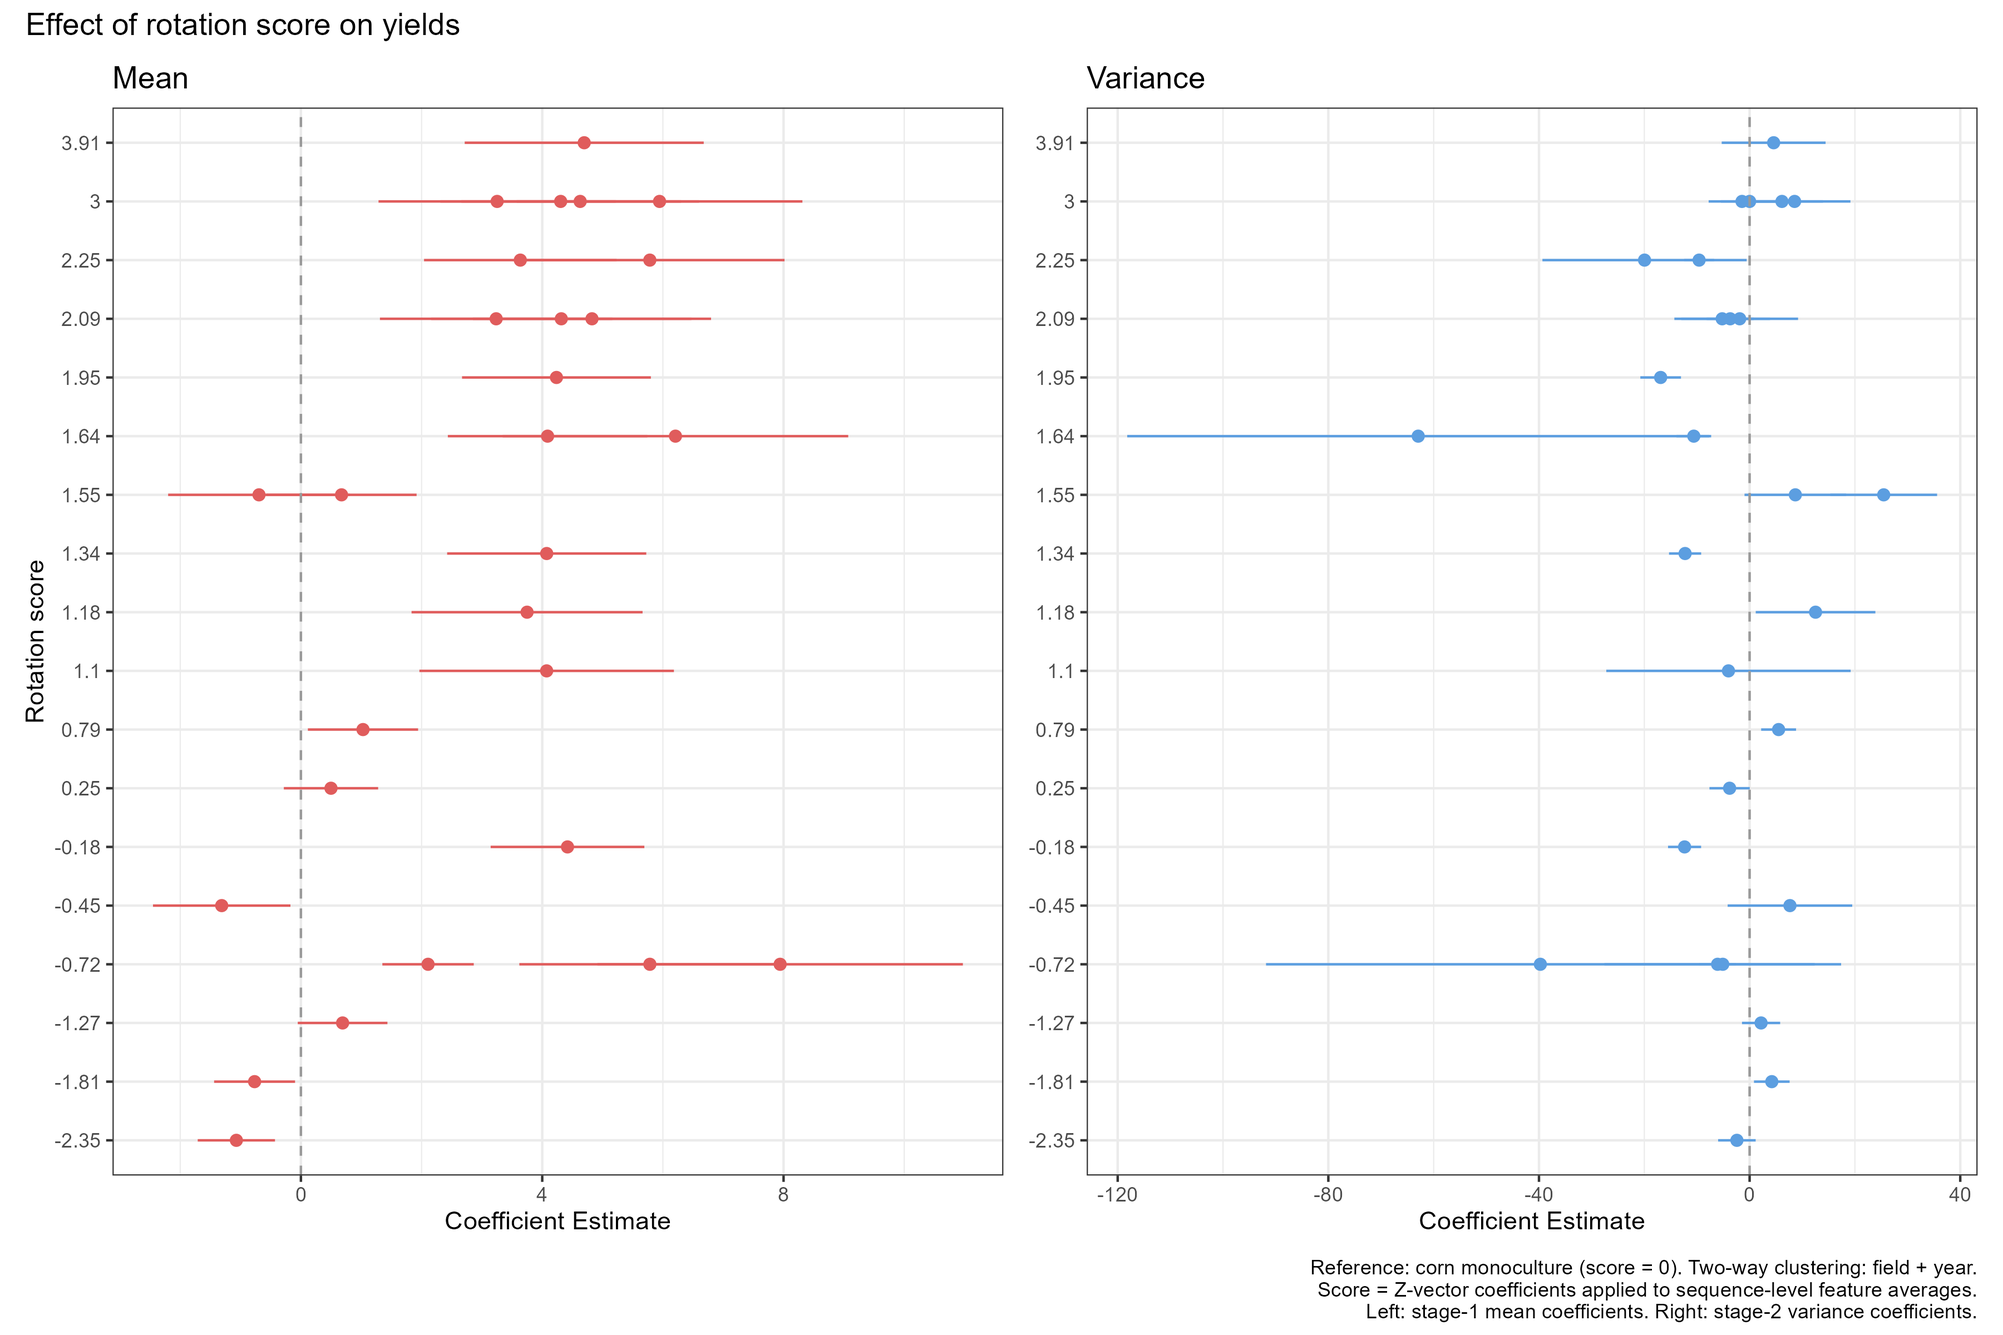
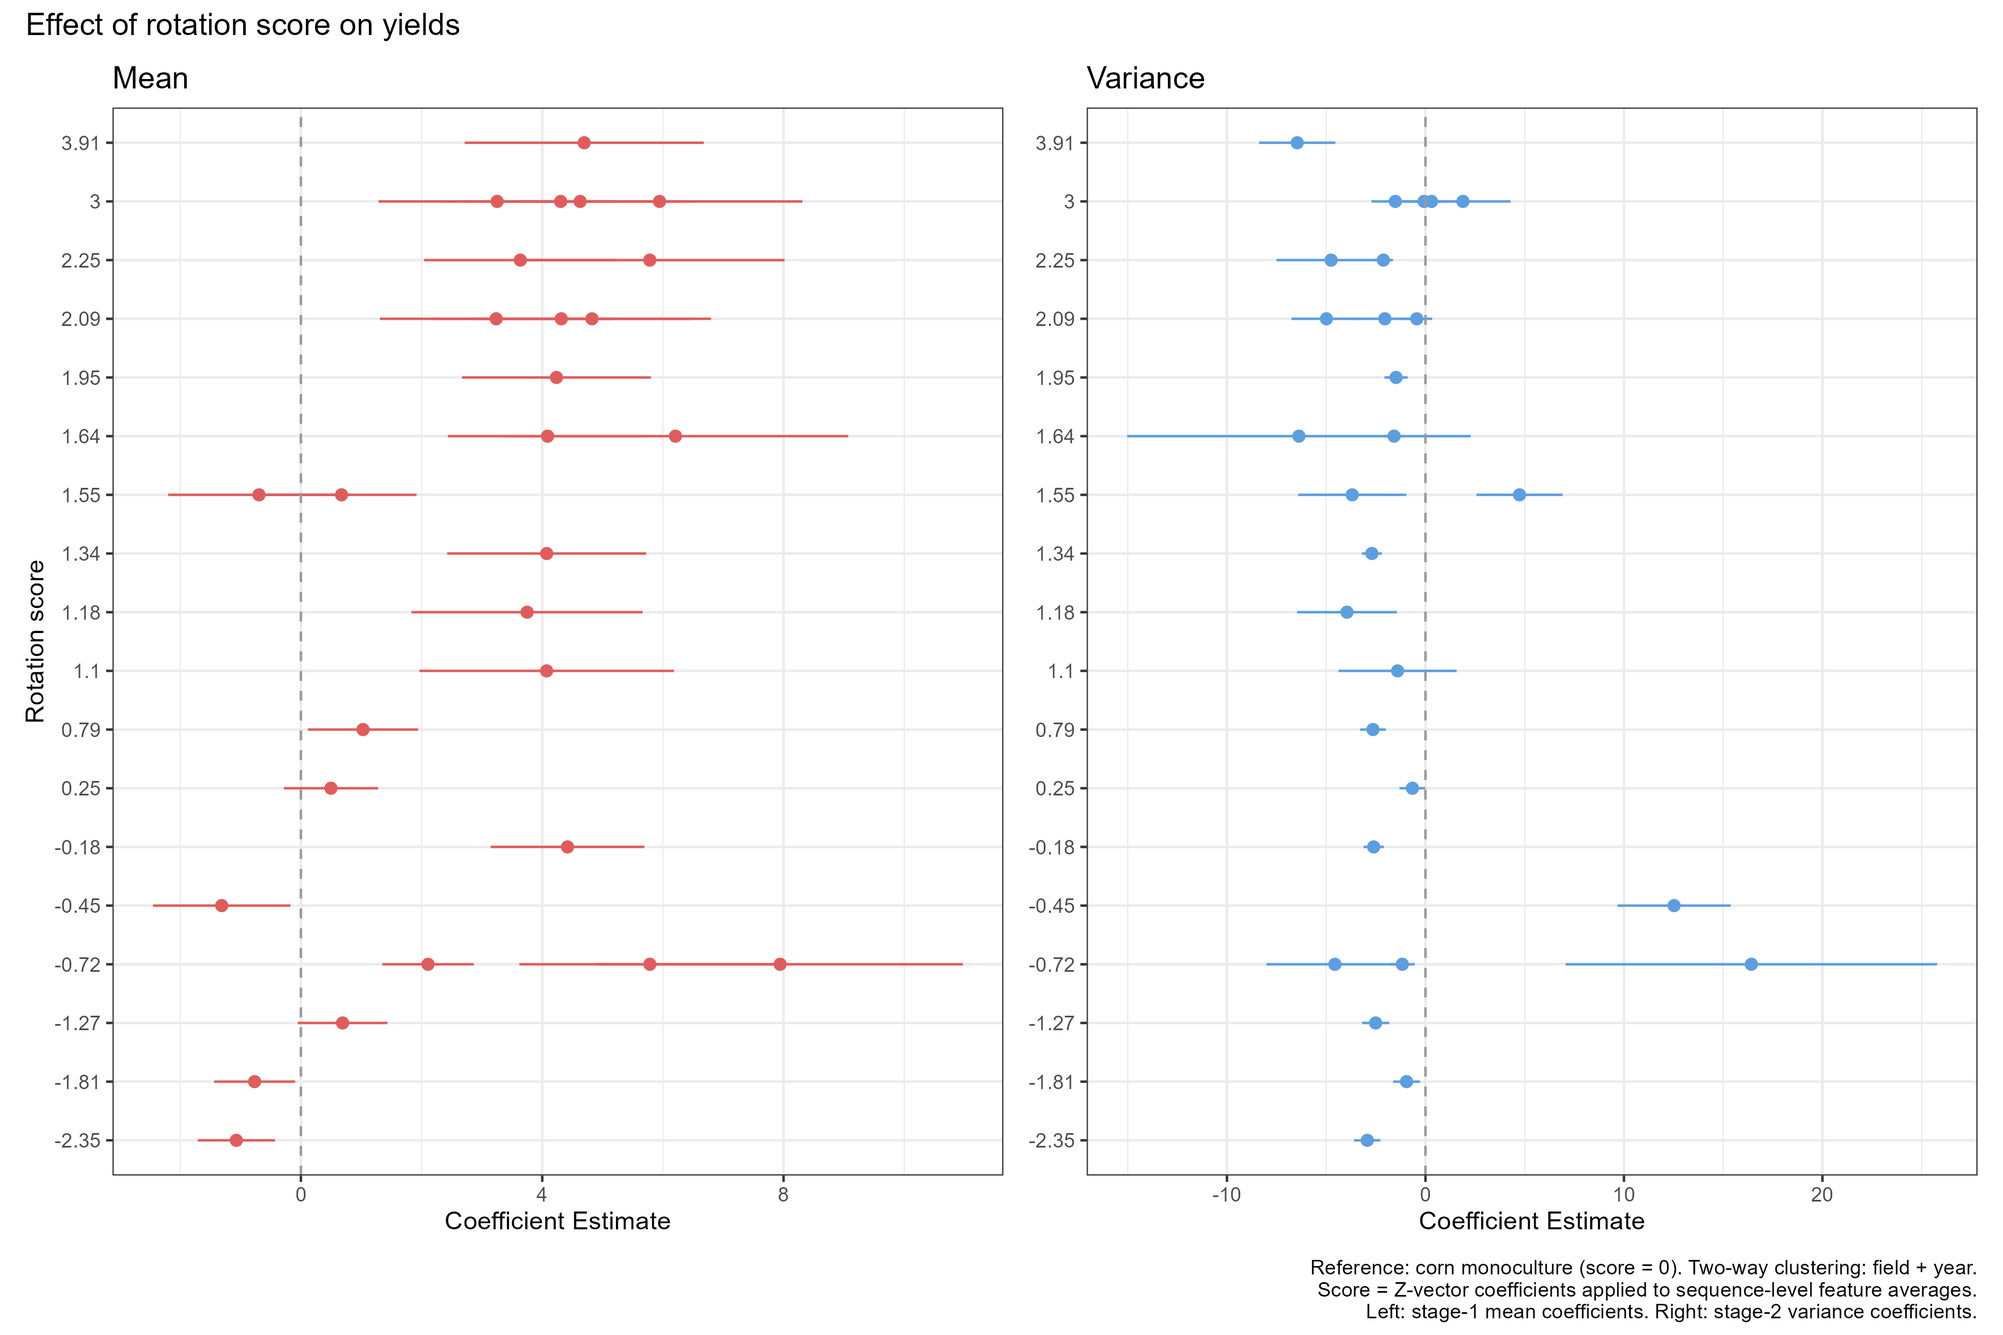
add boot tables

diff --git a/tables/corn_jp_mean.tex b/tables/corn_jp_mean.tex
@@ -6,46 +6,47 @@
    \begin{tabular}{lcccc}
       \toprule
        & \multicolumn{4}{c}{corn\_yield}\\
-                                      & (1)                     & (2)                    & (3)                    & (4)\\  
+                                      & (1)                      & (2)                    & (3)                    & (4)\\  
       \midrule 
-      C-C-C-C-S-C                     & 4.419$^{***}$ (0.6498) [p<0.001]  &                        &                        &   \\   
-      C-C-C-S-C-C                     & 2.108$^{***}$ (0.3865) [p<0.001]  &                        &                        &   \\   
-      C-C-C-S-S-C                     & 3.749$^{***}$ (0.9768) [p=0.003]  &                        &                        &   \\   
-      C-C-C-S-W-C                     & 5.784$^{***}$ (1.104) [p<0.001]   &                        &                        &   \\   
-      C-C-S-C-C-C                     & 0.6911$^{*}$ (0.3791) [p=0.100]   &                        &                        &   \\   
-      C-C-S-C-S-C                     & 4.074$^{***}$ (0.8420) [p<0.001]  &                        &                        &   \\   
-      C-S-C-C-C-C                     & -0.7678$^{**}$ (0.3423) [p=0.051] &                        &                        &   \\   
-      C-S-C-C-S-C                     & 4.089$^{***}$ (0.8435) [p<0.001]  &                        &                        &   \\   
-      C-S-C-S-C-C                     & 1.029$^{**}$ (0.4660) [p=0.052]   &                        &                        &   \\   
-      C-S-C-S-S-C                     & 4.825$^{***}$ (1.007) [p<0.001]   &                        &                        &   \\   
-      C-S-C-W-S-C                     & 6.208$^{***}$ (1.461) [p=0.002]   &                        &                        &   \\   
-      C-S-S-S-S-C                     & 4.305$^{***}$ (1.018) [p=0.002]   &                        &                        &   \\   
-      S-C-C-C-C-C                     & -1.070$^{***}$ (0.3267) [p=0.008] &                        &                        &   \\   
-      S-C-C-C-S-C                     & 4.236$^{***}$ (0.7985) [p<0.001]  &                        &                        &   \\   
-      S-C-C-S-S-C                     & 3.236$^{***}$ (0.9829) [p=0.008]  &                        &                        &   \\   
-      S-C-C-S-W-C                     & 4.073$^{***}$ (1.076) [p=0.003]   &                        &                        &   \\   
-      S-C-S-C-C-C                     & 0.4986 (0.3987) [p=0.249]         &                        &                        &   \\   
-      S-C-S-C-S-C                     & 3.637$^{***}$ (0.8142) [p=0.001]  &                        &                        &   \\   
-      S-C-S-S-C-C                     & 0.6735 (0.6348) [p=0.318]         &                        &                        &   \\   
-      S-C-S-S-S-C                     & 4.629$^{***}$ (1.005) [p<0.001]   &                        &                        &   \\   
-      S-C-S-W-S-C                     & 5.783$^{***}$ (1.139) [p<0.001]   &                        &                        &   \\   
-      S-S-C-C-C-C                     & -1.313$^{**}$ (0.5812) [p=0.051]  &                        &                        &   \\   
-      S-S-C-C-S-C                     & 4.316$^{***}$ (1.100) [p=0.003]   &                        &                        &   \\   
-      S-S-C-S-C-C                     & -0.6947 (0.7683) [p=0.381]        &                        &                        &   \\   
-      S-S-C-S-S-C                     & 5.944$^{***}$ (1.208) [p<0.001]   &                        &                        &   \\   
-      S-S-S-C-S-C                     & 3.253$^{***}$ (1.003) [p=0.008]   &                        &                        &   \\   
-      S-S-S-S-S-C                     & 4.696$^{***}$ (1.011) [p<0.001]   &                        &                        &   \\   
-      W-C-C-S-W-C                     & 7.943$^{***}$ (1.545) [p<0.001]   &                        &                        &   \\   
-      soy\_lag1                       &                         & 3.496$^{***}$ (0.5677) & 4.054$^{***}$ (0.6028) &   \\   
-      soy\_lag2                       &                         &                        & 1.368$^{***}$ (0.2386) &   \\   
-      rot\_index                      &                         &                        &                        & 0.6389$^{***}$ (0.1512)\\   
+      C-C-C-C-S-C                     & 4.419$^{***}$ (0.0847) [p<0.001]   &                        &                        &   \\   
+      C-C-C-S-C-C                     & 2.108$^{***}$ (0.0955) [p<0.001]   &                        &                        &   \\   
+      C-C-C-S-S-C                     & 3.749$^{***}$ (0.3360) [p=0.003]   &                        &                        &   \\   
+      C-C-C-S-W-C                     & 5.784$^{***}$ (0.6392) [p<0.001]   &                        &                        &   \\   
+      C-C-S-C-C-C                     & 0.6911$^{***}$ (0.0996) [p=0.100]  &                        &                        &   \\   
+      C-C-S-C-S-C                     & 4.074$^{***}$ (0.0867) [p<0.001]   &                        &                        &   \\   
+      C-S-C-C-C-C                     & -0.7678$^{***}$ (0.0942) [p=0.051] &                        &                        &   \\   
+      C-S-C-C-S-C                     & 4.089$^{***}$ (0.0895) [p<0.001]   &                        &                        &   \\   
+      C-S-C-S-C-C                     & 1.029$^{***}$ (0.0955) [p=0.052]   &                        &                        &   \\   
+      C-S-C-S-S-C                     & 4.825$^{***}$ (0.1254) [p<0.001]   &                        &                        &   \\   
+      C-S-C-W-S-C                     & 6.208$^{***}$ (1.305) [p=0.002]    &                        &                        &   \\   
+      C-S-S-S-S-C                     & 4.305$^{***}$ (0.3384) [p=0.002]   &                        &                        &   \\   
+      S-C-C-C-C-C                     & -1.070$^{***}$ (0.0921) [p=0.008]  &                        &                        &   \\   
+      S-C-C-C-S-C                     & 4.236$^{***}$ (0.1044) [p<0.001]   &                        &                        &   \\   
+      S-C-C-S-S-C                     & 3.236$^{***}$ (0.3124) [p=0.008]   &                        &                        &   \\   
+      S-C-C-S-W-C                     & 4.073$^{***}$ (0.6228) [p=0.003]   &                        &                        &   \\   
+      S-C-S-C-C-C                     & 0.4986$^{***}$ (0.1072) [p=0.249]  &                        &                        &   \\   
+      S-C-S-C-S-C                     & 3.637$^{***}$ (0.0810) [p=0.001]   &                        &                        &   \\   
+      S-C-S-S-C-C                     & 0.6735$^{**}$ (0.2943) [p=0.318]   &                        &                        &   \\   
+      S-C-S-S-S-C                     & 4.629$^{***}$ (0.1849) [p<0.001]   &                        &                        &   \\   
+      S-C-S-W-S-C                     & 5.783$^{***}$ (0.5235) [p<0.001]   &                        &                        &   \\   
+      S-S-C-C-C-C                     & -1.313$^{***}$ (0.3485) [p=0.051]  &                        &                        &   \\   
+      S-S-C-C-S-C                     & 4.316$^{***}$ (0.2564) [p=0.003]   &                        &                        &   \\   
+      S-S-C-S-C-C                     & -0.6947$^{**}$ (0.3160) [p=0.381]  &                        &                        &   \\   
+      S-S-C-S-S-C                     & 5.944$^{***}$ (0.2198) [p<0.001]   &                        &                        &   \\   
+      S-S-S-C-S-C                     & 3.253$^{***}$ (0.1611) [p=0.008]   &                        &                        &   \\   
+      S-S-S-S-S-C                     & 4.696$^{***}$ (0.2931) [p<0.001]   &                        &                        &   \\   
+      W-C-C-S-W-C                     & 7.943$^{***}$ (1.424) [p<0.001]    &                        &                        &   \\   
+      soy\_lag1                       &                          & 3.496$^{***}$ (0.5677) & 4.054$^{***}$ (0.6028) &   \\   
+      soy\_lag2                       &                          &                        & 1.368$^{***}$ (0.2386) &   \\   
+      rot\_index                      &                          &                        &                        & 0.6389$^{***}$ (0.1512)\\   
        \\
-      Observations                    & 1,785,861               & 1,785,861              & 1,785,861              & 1,785,861\\  
-      R$^2$                           & 0.84367                 & 0.84345                & 0.84356                & 0.84269\\  
-      Within R$^2$                    & 0.15453                 & 0.15333                & 0.15392                & 0.14919\\  
+      Standard-Errors & Custom & \multicolumn{3}{c}{tile\_field\_ID \& year} \\ 
+      Observations                    & 1,785,861                & 1,785,861              & 1,785,861              & 1,785,861\\  
+      R$^2$                           & 0.84367                  & 0.84345                & 0.84356                & 0.84269\\  
+      Within R$^2$                    & 0.15453                  & 0.15333                & 0.15392                & 0.14919\\  
        \\
-      tile\_field\_ID fixed effects   & $\checkmark$            & $\checkmark$           & $\checkmark$           & $\checkmark$\\   
-      year fixed effects              & $\checkmark$            & $\checkmark$           & $\checkmark$           & $\checkmark$\\   
+      tile\_field\_ID fixed effects   & $\checkmark$             & $\checkmark$           & $\checkmark$           & $\checkmark$\\   
+      year fixed effects              & $\checkmark$             & $\checkmark$           & $\checkmark$           & $\checkmark$\\   
       \bottomrule
    \end{tabular}
    

diff --git a/tables/corn_jp_moments.tex b/tables/corn_jp_moments.tex
@@ -1,49 +1,49 @@
 
 \begin{table}[H]
-   \caption{\label{tab:corn_jp_moments} Stage 2/3 — Corn yield conditional variance and skewness}
+   \caption{\label{tab:corn_jp_moments} Stage 2/3 — Corn yield conditional variance (FGLS) and skewness}
    \bigskip
    \centering
    \begin{tabular}{lcc}
       \toprule
-                                      & resid\_sq              & resid\_cube\_std\\    
-                                      & Variance               & Skewness (standardized) \\   
-                                      & (1)                    & (2)\\  
+                                      & resid\_sq            & resid\_cube\_std\\    
+                                      & Variance             & Skewness (standardized) \\   
+                                      & (1)                  & (2)\\  
       \midrule 
-      C-C-C-C-S-C                     & -12.35$^{***}$ (1.602) & -0.0698 (0.0447)\\   
-      C-C-C-S-C-C                     & -6.079$^{***}$ (1.773) & -0.0997$^{**}$ (0.0495)\\   
-      C-C-C-S-S-C                     & 12.52$^{**}$ (5.796)   & -0.3691$^{**}$ (0.1616)\\   
-      C-C-C-S-W-C                     & -5.099 (11.47)         & -0.0740 (0.3198)\\   
-      C-C-S-C-C-C                     & 2.177 (1.849)          & 0.0422 (0.0515)\\   
-      C-C-S-C-S-C                     & -12.25$^{***}$ (1.555) & -0.0172 (0.0434)\\   
-      C-S-C-C-C-C                     & 4.212$^{**}$ (1.727)   & 0.0614 (0.0482)\\   
-      C-S-C-C-S-C                     & -10.60$^{***}$ (1.682) & 0.0332 (0.0469)\\   
-      C-S-C-S-C-C                     & 5.506$^{***}$ (1.691)  & -0.3127$^{***}$ (0.0472)\\   
-      C-S-C-S-S-C                     & -3.685 (2.280)         & -0.1868$^{***}$ (0.0636)\\   
-      C-S-C-W-S-C                     & -62.93$^{**}$ (28.20)  & 0.3073 (0.7863)\\   
-      C-S-S-S-S-C                     & 8.542 (5.410)          & -0.0609 (0.1509)\\   
-      S-C-C-C-C-C                     & -2.414 (1.819)         & -0.0201 (0.0507)\\   
-      S-C-C-C-S-C                     & -16.89$^{***}$ (1.970) & 0.0626 (0.0549)\\   
-      S-C-C-S-S-C                     & -1.888 (5.657)         & -0.2959$^{*}$ (0.1578)\\   
-      S-C-C-S-W-C                     & -4.014 (11.84)         & -0.1277 (0.3302)\\   
-      S-C-S-C-C-C                     & -3.799$^{*}$ (1.952)   & 0.0016 (0.0544)\\   
-      S-C-S-C-S-C                     & -9.593$^{***}$ (1.453) & -0.0196 (0.0405)\\   
-      S-C-S-S-C-C                     & 8.684$^{*}$ (4.924)    & -0.2235 (0.1373)\\   
-      S-C-S-S-S-C                     & -1.445 (3.231)         & -0.1768$^{**}$ (0.0901)\\   
-      S-C-S-W-S-C                     & -19.95$^{**}$ (9.895)  & 0.0134 (0.2759)\\   
-      S-S-C-C-C-C                     & 7.659 (6.035)          & -0.3315$^{**}$ (0.1683)\\   
-      S-S-C-C-S-C                     & -5.209 (4.633)         & 0.0250 (0.1292)\\   
-      S-S-C-S-C-C                     & 25.46$^{***}$ (5.173)  & -0.2299 (0.1443)\\   
-      S-S-C-S-S-C                     & 6.141 (3.978)          & -0.2069$^{*}$ (0.1109)\\   
-      S-S-S-C-S-C                     & -0.0004 (2.781)        & -0.1828$^{**}$ (0.0775)\\   
-      S-S-S-S-S-C                     & 4.564 (5.033)          & -0.0658 (0.1403)\\   
-      W-C-C-S-W-C                     & -39.74 (26.58)         & -0.2193 (0.7412)\\   
+      C-C-C-C-S-C                     & -2.608$^{*}$ (1.561) & -0.0761$^{*}$ (0.0442)\\   
+      C-C-C-S-C-C                     & -1.166 (1.888)       & -0.1086$^{*}$ (0.0556)\\   
+      C-C-C-S-S-C                     & -3.954 (6.955)       & -0.4022$^{*}$ (0.2152)\\   
+      C-C-C-S-W-C                     & -4.563 (7.625)       & -0.0806 (0.2647)\\   
+      C-C-S-C-C-C                     & -2.510 (1.960)       & 0.0460 (0.0550)\\   
+      C-C-S-C-S-C                     & -2.699$^{*}$ (1.543) & -0.0188 (0.0423)\\   
+      C-S-C-C-C-C                     & -0.9526 (1.995)      & 0.0669 (0.0680)\\   
+      C-S-C-C-S-C                     & -1.582 (1.604)       & 0.0362 (0.0458)\\   
+      C-S-C-S-C-C                     & -2.645 (1.800)       & -0.3407$^{***}$ (0.0484)\\   
+      C-S-C-S-S-C                     & -0.4388 (2.100)      & -0.2035$^{***}$ (0.0564)\\   
+      C-S-C-W-S-C                     & -6.375 (16.24)       & 0.3349 (0.3274)\\   
+      C-S-S-S-S-C                     & 1.889 (7.323)        & -0.0663 (0.1385)\\   
+      S-C-C-C-C-C                     & -2.932 (1.920)       & -0.0219 (0.0458)\\   
+      S-C-C-C-S-C                     & -1.481 (1.712)       & 0.0683 (0.0480)\\   
+      S-C-C-S-S-C                     & -4.991 (4.073)       & -0.3224$^{**}$ (0.1262)\\   
+      S-C-C-S-W-C                     & -1.404 (9.155)       & -0.1392 (0.2262)\\   
+      S-C-S-C-C-C                     & -0.6575 (1.899)      & 0.0018 (0.0525)\\   
+      S-C-S-C-S-C                     & -2.120 (1.449)       & -0.0213 (0.0396)\\   
+      S-C-S-S-C-C                     & 4.738 (5.055)        & -0.2435$^{**}$ (0.1169)\\   
+      S-C-S-S-S-C                     & -1.519 (3.024)       & -0.1926$^{*}$ (0.1060)\\   
+      S-C-S-W-S-C                     & -4.754 (5.753)       & 0.0146 (0.1780)\\   
+      S-S-C-C-C-C                     & 12.53 (9.702)        & -0.3612$^{**}$ (0.1745)\\   
+      S-S-C-C-S-C                     & -2.046 (4.119)       & 0.0272 (0.1042)\\   
+      S-S-C-S-C-C                     & -3.690 (6.543)       & -0.2505$^{*}$ (0.1310)\\   
+      S-S-C-S-S-C                     & 0.3054 (3.665)       & -0.2254$^{***}$ (0.0870)\\   
+      S-S-S-C-S-C                     & -0.0708 (3.020)      & -0.1992$^{***}$ (0.0745)\\   
+      S-S-S-S-S-C                     & -6.460 (4.635)       & -0.0717 (0.0857)\\   
+      W-C-C-S-W-C                     & 16.42 (21.80)        & -0.2389 (0.2466)\\   
        \\
-      Observations                    & 1,785,861              & 1,785,861\\  
-      R$^2$                           & 0.29115                & 0.08661\\  
-      Within R$^2$                    & 0.01395                & 0.00195\\  
+      Observations                    & 1,785,861            & 1,785,861\\  
+      R$^2$                           & 0.60737              & 0.08661\\  
+      Within R$^2$                    & 0.00403              & 0.00195\\  
        \\
-      tile\_field\_ID fixed effects   & $\checkmark$           & $\checkmark$\\   
-      year fixed effects              & $\checkmark$           & $\checkmark$\\   
+      tile\_field\_ID fixed effects   & $\checkmark$         & $\checkmark$\\   
+      year fixed effects              & $\checkmark$         & $\checkmark$\\   
       \bottomrule
    \end{tabular}
 \end{table}

diff --git a/rotations_insurance.tex b/rotations_insurance.tex
@@ -427,7 +427,7 @@ Figure~\ref{fig:corn_jp_plot} summarizes the joint mean-variance results in a si
   \caption{Response of the standard deviation of corn yields to rotation sequences.}
   \label{fig:corn_var_plot}
   \floatfoot{\footnotesize Notes: Point estimates and 95\% confidence intervals
-  from stage-2 OLS variance regression. Reference: corn monoculture. Two-way
+  from stage-2 FGLS variance regression. Reference: corn monoculture. Two-way
   clustering at field and year level.}
 \end{figure}
 
@@ -456,7 +456,7 @@ The estimated skewness effects do not reproduce the downside-risk buffering that
   \floatfoot{\footnotesize Notes: Each point represents one of the 48
   non-monoculture rotation sequences (31 corn--soybean, 17 corn--soybean--wheat).
   Horizontal axis: stage-1 coefficient (effect on mean corn yield). Vertical
-  axis: stage-2 OLS coefficient (effect on yield variance). Error bars are 95\%
+  axis: stage-2 FGLS coefficient (effect on yield variance). Error bars are 95\%
   confidence intervals. Green (``Dominates monoculture''): higher mean
   \textit{and} lower variance than monoculture. Orange (``Mean-variance
   trade-off''): higher mean, higher variance. Red (``Worse than monoculture''):
